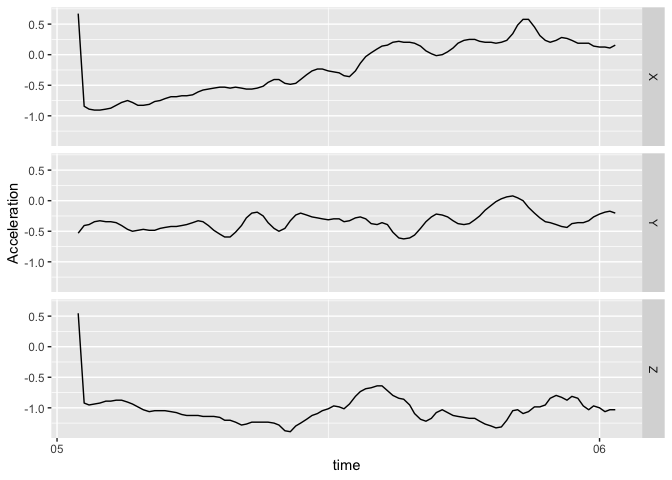
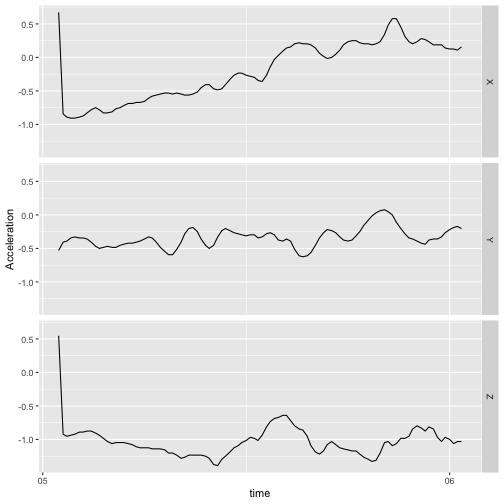
Updates.

diff --git a/README.md b/README.md
@@ -1,30 +1,26 @@
+---
+output: github_document
+---
 
 <!-- README.md is generated from README.Rmd. Please edit that file -->
+
+
 
 # bis620.2023
 
 <!-- badges: start -->
-
 [![R-CMD-check](https://github.com/yixuanlyx/bis620.2023/actions/workflows/R-CMD-check.yaml/badge.svg)](https://github.com/yixuanlyx/bis620.2023/actions/workflows/R-CMD-check.yaml)
 <!-- badges: end -->
 
 <!-- badges: start -->
-
-[![R-CMD-check](https://github.com/yixuanlyx/bis620.2023/actions/workflows/lint.yaml/badge.svg)](https://github.com/yixuanlyx/bis620.2023/actions/workflows/lint.yaml)
-<!-- badges: end -->
-
-<!-- badges: start -->
-
 [![R-CMD-check](https://github.com/yixuanlyx/bis620.2023/actions/workflows/test-coverage.yaml/badge.svg)](https://github.com/yixuanlyx/bis620.2023/actions/workflows/test-coverage.yaml)
 <!-- badges: end -->
 
-The goal of bis620.2023 is to start the shiny app we built for checking
-information on clinicaltrials.gov website.
+The goal of bis620.2023 is to start the shiny app we built for checking information on clinicaltrials.gov website. 
 
 ## Installation
 
-You can install the development version of bis620.2023 from
-[GitHub](https://github.com/) with:
+You can install the development version of bis620.2023 from [GitHub](https://github.com/) with:
 
 ``` r
 # install.packages("devtools")
@@ -35,7 +31,8 @@ devtools::install_github("yixuanlyx/bis620.2023")
 
 This is a basic example which shows you how to solve a common problem:
 
-``` r
+
+```r
 library(bis620.2023)
 ## basic example code
 accel |> 
@@ -43,4 +40,8 @@ accel |>
   plot_accel()
 ```
 
-<img src="man/figures/README-example-1.png" width="100%" />
+<div class="figure">
+<img src="man/figures/README-example-1.png" alt="plot of chunk example" width="100%" />
+<p class="caption">plot of chunk example</p>
+</div>
+
